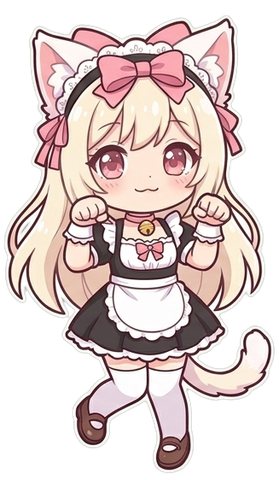
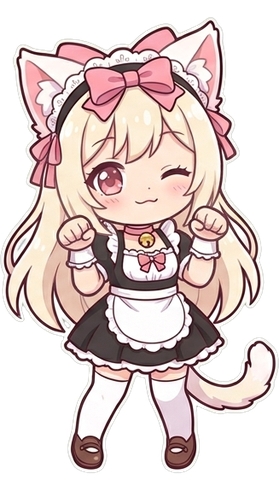
Neko: 16-frame crossfaded mascot dance at a calmer pace; catgirl theme toggle (Appearance switch + side-rail paw button)

diff --git a/lib/theme/neko/neko_mascot.dart b/lib/theme/neko/neko_mascot.dart
@@ -36,6 +36,14 @@ class _NekoMascotState extends State<NekoMascot>
     'assets/neko/mascot_frames/frame_5.png',
     'assets/neko/mascot_frames/frame_6.png',
     'assets/neko/mascot_frames/frame_7.png',
+    'assets/neko/mascot_frames/frame_8.png',
+    'assets/neko/mascot_frames/frame_9.png',
+    'assets/neko/mascot_frames/frame_10.png',
+    'assets/neko/mascot_frames/frame_11.png',
+    'assets/neko/mascot_frames/frame_12.png',
+    'assets/neko/mascot_frames/frame_13.png',
+    'assets/neko/mascot_frames/frame_14.png',
+    'assets/neko/mascot_frames/frame_15.png',
   ];
 
   static const String _staticFrame = 'assets/neko/mascot.png';
@@ -53,7 +61,7 @@ class _NekoMascotState extends State<NekoMascot>
     super.initState();
     _controller = AnimationController(
       vsync: this,
-      duration: const Duration(milliseconds: 1280),
+      duration: const Duration(milliseconds: 3200),
     )..repeat();
   }
 
@@ -154,22 +162,29 @@ class _NekoMascotState extends State<NekoMascot>
       animation: _controller,
       builder: (context, _) {
         final phase = _controller.value;
-        final frameIndex = _frameIndexForPhase(phase);
-        final framePath = _frames[frameIndex];
 
-        // Vertical bounce: 4 small hops per cycle.
+        // Crossfade frame math.
+        final pos = phase * 16;
+        final i = pos.floor() % 16;
+        final t = pos - pos.floor();
+        final fade = t < 0.6
+            ? 0.0
+            : Curves.easeInOut.transform((t - 0.6) / 0.4);
+        final next = (i + 1) % 16;
+
+        // Vertical bounce: 2 soft hops per cycle.
         final bounce =
-            -math.sin(2 * math.pi * phase * 4).abs() * widget.height * 0.035;
+            -math.sin(2 * math.pi * phase * 2).abs() * widget.height * 0.0175;
 
-        // Squash & stretch.
-        final scaleY = 1 + 0.03 * math.cos(2 * math.pi * phase * 4);
+        // Squash & stretch (halved amplitude).
+        final scaleY = 1 + 0.015 * math.cos(2 * math.pi * phase * 2);
         final scaleX = 2 - scaleY;
 
-        // Sway rotation ±3°.
-        final swayAngle = math.sin(2 * math.pi * phase) * (3 * math.pi / 180);
+        // Sway rotation ±2°.
+        final swayAngle = math.sin(2 * math.pi * phase) * (2 * math.pi / 180);
 
         // Shadow shrinks a bit when she is up.
-        final maxBounce = widget.height * 0.035;
+        final maxBounce = widget.height * 0.0175;
         final shadowScale = 1.0 - (bounce.abs() / maxBounce) * 0.15;
 
         final shadowColor = decor.cocoa.withValues(alpha: 0.18);
@@ -189,7 +204,7 @@ class _NekoMascotState extends State<NekoMascot>
                 ),
               ),
             ),
-            // Mascot with layered procedural motion.
+            // Mascot with layered procedural motion + crossfade.
             Transform.translate(
               offset: Offset(0, bounce),
               child: Transform.rotate(
@@ -199,16 +214,31 @@ class _NekoMascotState extends State<NekoMascot>
                   scaleX: scaleX,
                   scaleY: scaleY,
                   alignment: Alignment.bottomCenter,
-                  child: Image(
-                    image: _provider(framePath, context),
-                    height: widget.height,
-                    gaplessPlayback: true,
-                    filterQuality: FilterQuality.medium,
+                  child: Stack(
+                    alignment: Alignment.bottomCenter,
+                    children: [
+                      Image(
+                        image: _provider(_frames[i], context),
+                        height: widget.height,
+                        gaplessPlayback: true,
+                        filterQuality: FilterQuality.medium,
+                      ),
+                      if (fade > 0)
+                        Opacity(
+                          opacity: fade,
+                          child: Image(
+                            image: _provider(_frames[next], context),
+                            height: widget.height,
+                            gaplessPlayback: true,
+                            filterQuality: FilterQuality.medium,
+                          ),
+                        ),
+                    ],
                   ),
                 ),
               ),
             ),
-            // Floating hearts / music notes (max 4 alive; we spawn 3 per cycle).
+            // Floating hearts / music notes (max 4 alive; we spawn 2 per cycle).
             if (widget.showHearts) ..._buildHearts(decor, phase),
           ],
         );
@@ -218,8 +248,8 @@ class _NekoMascotState extends State<NekoMascot>
 
   /// Derives heart / note positions purely from [phase] (no timers).
   List<Widget> _buildHearts(NekoDecor decor, double phase) {
-    const spawnPhases = [0.1, 0.43, 0.76];
-    const lifetime = 0.75; // 960 ms / 1280 ms cycle
+    const spawnPhases = [0.1, 0.6];
+    const lifetime = 0.5625; // 1800 ms / 3200 ms cycle
     final result = <Widget>[];
 
     for (var i = 0; i < spawnPhases.length; i++) {

diff --git a/lib/i18n/strings_en.g.dart b/lib/i18n/strings_en.g.dart
@@ -399,6 +399,12 @@ class Translations$neko$en {
 
 	/// en: 'Show dancing mascot'
 	String get mascotToggle => 'Show dancing mascot';
+
+	/// en: 'Catgirl theme'
+	String get themeToggle => 'Catgirl theme';
+
+	/// en: 'Neko Maid look with the dancing mascot'
+	String get themeToggleSubtitle => 'Neko Maid look with the dancing mascot';
 }
 
 // Path: settings
@@ -7542,6 +7548,8 @@ extension on Translations {
 			'neko.empty' => 'Nothing here yet, nya…',
 			'neko.error' => 'Oh no! Something went wrong, nya…',
 			'neko.mascotToggle' => 'Show dancing mascot',
+			'neko.themeToggle' => 'Catgirl theme',
+			'neko.themeToggleSubtitle' => 'Neko Maid look with the dancing mascot',
 			'settings.title' => 'Settings',
 			'settings.supportDeveloper' => 'Support Plezy',
 			'settings.supportDeveloperDescription' => 'Donate via Liberapay to fund development',
@@ -7944,10 +7952,10 @@ extension on Translations {
 			'fileInfo.colorRange' => 'Color Range',
 			'fileInfo.colorPrimaries' => 'Color Primaries',
 			'fileInfo.colorTransfer' => 'Color Transfer',
-			'fileInfo.chromaSubsampling' => 'Chroma Subsampling',
-			'fileInfo.chromaLocation' => 'Chroma Location',
 			_ => null,
 		} ?? switch (path) {
+			'fileInfo.chromaSubsampling' => 'Chroma Subsampling',
+			'fileInfo.chromaLocation' => 'Chroma Location',
 			'fileInfo.scanType' => 'Scan Type',
 			'fileInfo.interlaced' => 'Interlaced',
 			'fileInfo.anamorphic' => 'Anamorphic',
@@ -8458,10 +8466,10 @@ extension on Translations {
 			'discover.person.dateWithAge' => ({required Object date, required Object age}) => '${date} (age ${age})',
 			'discover.person.dateWithAgeAtDeath' => ({required Object date, required Object age}) => '${date} (aged ${age})',
 			'errors.searchFailed' => ({required Object error}) => 'Search failed: ${error}',
-			'errors.searchUnavailable' => 'Search could not reach any media server.',
-			'errors.connectionTimeout' => ({required Object context}) => 'Connection timeout while loading ${context}',
 			_ => null,
 		} ?? switch (path) {
+			'errors.searchUnavailable' => 'Search could not reach any media server.',
+			'errors.connectionTimeout' => ({required Object context}) => 'Connection timeout while loading ${context}',
 			'errors.connectionFailed' => 'Unable to connect to media server',
 			'errors.unableToLoad' => ({required Object context}) => 'Unable to load ${context}. Please try again.',
 			'errors.noClientAvailable' => 'No client available',
@@ -8972,10 +8980,10 @@ extension on Translations {
 			'watchTogether.copySessionCode' => 'Copy session code',
 			'watchTogether.hostControlsPlayback' => 'Host controls playback',
 			'watchTogether.anyoneCanControl' => 'Anyone can control playback',
-			'watchTogether.hostControls' => 'Host controls',
-			'watchTogether.anyoneControls' => 'Anyone controls',
 			_ => null,
 		} ?? switch (path) {
+			'watchTogether.hostControls' => 'Host controls',
+			'watchTogether.anyoneControls' => 'Anyone controls',
 			'watchTogether.participants' => 'Participants',
 			'watchTogether.host' => 'Host',
 			'watchTogether.hostBadge' => 'HOST',
@@ -9486,10 +9494,10 @@ extension on Translations {
 			'seerr.sessionRejectedAfterReauth' => 'The session was rejected after signing in again',
 			'seerr.permissionDenied' => 'Seerr denied this action: your account no longer has the required permission',
 			'seerr.permissionRevoked' => 'You no longer have permission to request this',
-			'services.title' => 'Services',
-			'services.hubSubtitle' => 'Sync watch progress and request new titles.',
 			_ => null,
 		} ?? switch (path) {
+			'services.title' => 'Services',
+			'services.hubSubtitle' => 'Sync watch progress and request new titles.',
 			'services.integrations' => 'Integrations',
 			'services.notConnected' => 'Not connected',
 			'services.connectedAs' => ({required Object username}) => 'Connected as @${username}',

diff --git a/lib/widgets/side_navigation_rail.dart b/lib/widgets/side_navigation_rail.dart
@@ -29,6 +29,7 @@ import '../utils/scroll_utils.dart';
 import '../utils/library_grouping.dart';
 import 'music/equalizer_icon.dart';
 import '../providers/multi_server_provider.dart';
+import '../providers/theme_provider.dart';
 import '../services/fullscreen_state_manager.dart';
 import '../theme/mono_tokens.dart';
 import '../widgets/backend_badge.dart';
@@ -1118,6 +1119,19 @@ class SideNavigationRailState extends State<SideNavigationRail> with MountedSetS
                                       )
                                     : const SizedBox.shrink(),
                               ),
+                            Consumer<ThemeProvider>(
+                              builder: (context, themeProvider, _) => Padding(
+                                padding: const EdgeInsets.only(bottom: 8),
+                                child: Center(
+                                  child: IconButton(
+                                    tooltip: Translations.of(context).neko.themeToggle,
+                                    isSelected: themeProvider.isNekoTheme,
+                                    icon: const Icon(Symbols.pets_rounded),
+                                    onPressed: themeProvider.toggleNekoTheme,
+                                  ),
+                                ),
+                              ),
+                            ),
                             if (_showFullscreenToggle)
                               AnimatedPadding(
                                 padding: .fromLTRB(horizontalPadding, 0, horizontalPadding, 12),

diff --git a/lib/providers/theme_provider.dart b/lib/providers/theme_provider.dart
@@ -141,6 +141,27 @@ class ThemeProvider extends ChangeNotifier with DisposableChangeNotifierMixin, W
     if (_settingsBinding.settings == null) _syncThemeMode(mode);
   }
 
+  bool get isNekoTheme => _themeMode == settings.ThemeMode.neko || _themeMode == settings.ThemeMode.nekoNight;
+
+  Future<void> setNekoThemeEnabled(bool enabled) async {
+    final service = _settingsBinding.settings ?? await settings.SettingsService.getInstance();
+    if (enabled && !isNekoTheme) {
+      await service.write(settings.SettingsService.nekoPreviousThemeMode, _themeMode);
+      final newMode = isDarkMode ? settings.ThemeMode.nekoNight : settings.ThemeMode.neko;
+      await service.write(settings.SettingsService.themeMode, newMode);
+      if (_settingsBinding.settings == null) _syncThemeMode(newMode);
+    } else if (!enabled && isNekoTheme) {
+      var previous = service.read(settings.SettingsService.nekoPreviousThemeMode);
+      if (previous == settings.ThemeMode.neko || previous == settings.ThemeMode.nekoNight) {
+        previous = settings.ThemeMode.system;
+      }
+      await service.write(settings.SettingsService.themeMode, previous);
+      if (_settingsBinding.settings == null) _syncThemeMode(previous);
+    }
+  }
+
+  Future<void> toggleNekoTheme() => setNekoThemeEnabled(!isNekoTheme);
+
   Future<void> reload() async {
     await _settingsBinding.bind();
     final service = _settingsBinding.settings;

diff --git a/lib/screens/settings/appearance_settings_screen.dart b/lib/screens/settings/appearance_settings_screen.dart
@@ -33,6 +33,15 @@ class AppearanceSettingsScreen extends StatelessWidget {
         SettingsGroup(
           title: t.settings.display,
           children: [
+            Consumer<ThemeProvider>(
+              builder: (context, themeProvider, _) => SwitchListTile(
+                secondary: const Icon(Symbols.pets_rounded),
+                title: Text(t.neko.themeToggle),
+                subtitle: Text(t.neko.themeToggleSubtitle),
+                value: themeProvider.isNekoTheme,
+                onChanged: (v) => themeProvider.setNekoThemeEnabled(v),
+              ),
+            ),
             _themeSelector(),
             if (!PlatformDetector.isTV())
               SettingSwitchTile(

diff --git a/lib/services/settings_service.dart b/lib/services/settings_service.dart
@@ -892,6 +892,12 @@ class SettingsService extends BaseSharedPreferencesService {
     values: ThemeMode.values,
     defaultValueProvider: _tvAwareThemeModeDefault,
   );
+  /// Baseline theme to restore when the Neko theme toggle is switched off.
+  static const nekoPreviousThemeMode = EnumPref<ThemeMode>(
+    'neko_previous_theme_mode',
+    values: ThemeMode.values,
+    defaultValue: ThemeMode.system,
+  );
   static const videoPlayerNavigationEnabled = BoolPref(
     'video_player_navigation_enabled',
     defaultValueProvider: PlatformDetector.isTV,

diff --git a/lib/i18n/strings.g.dart b/lib/i18n/strings.g.dart
@@ -4,7 +4,7 @@
 /// To regenerate, run: `dart run slang`
 ///
 /// Locales: 22
-/// Strings: 45782 (2081 per locale)
+/// Strings: 45784 (2081 per locale)
 
 // coverage:ignore-file
 // ignore_for_file: type=lint, unused_import
